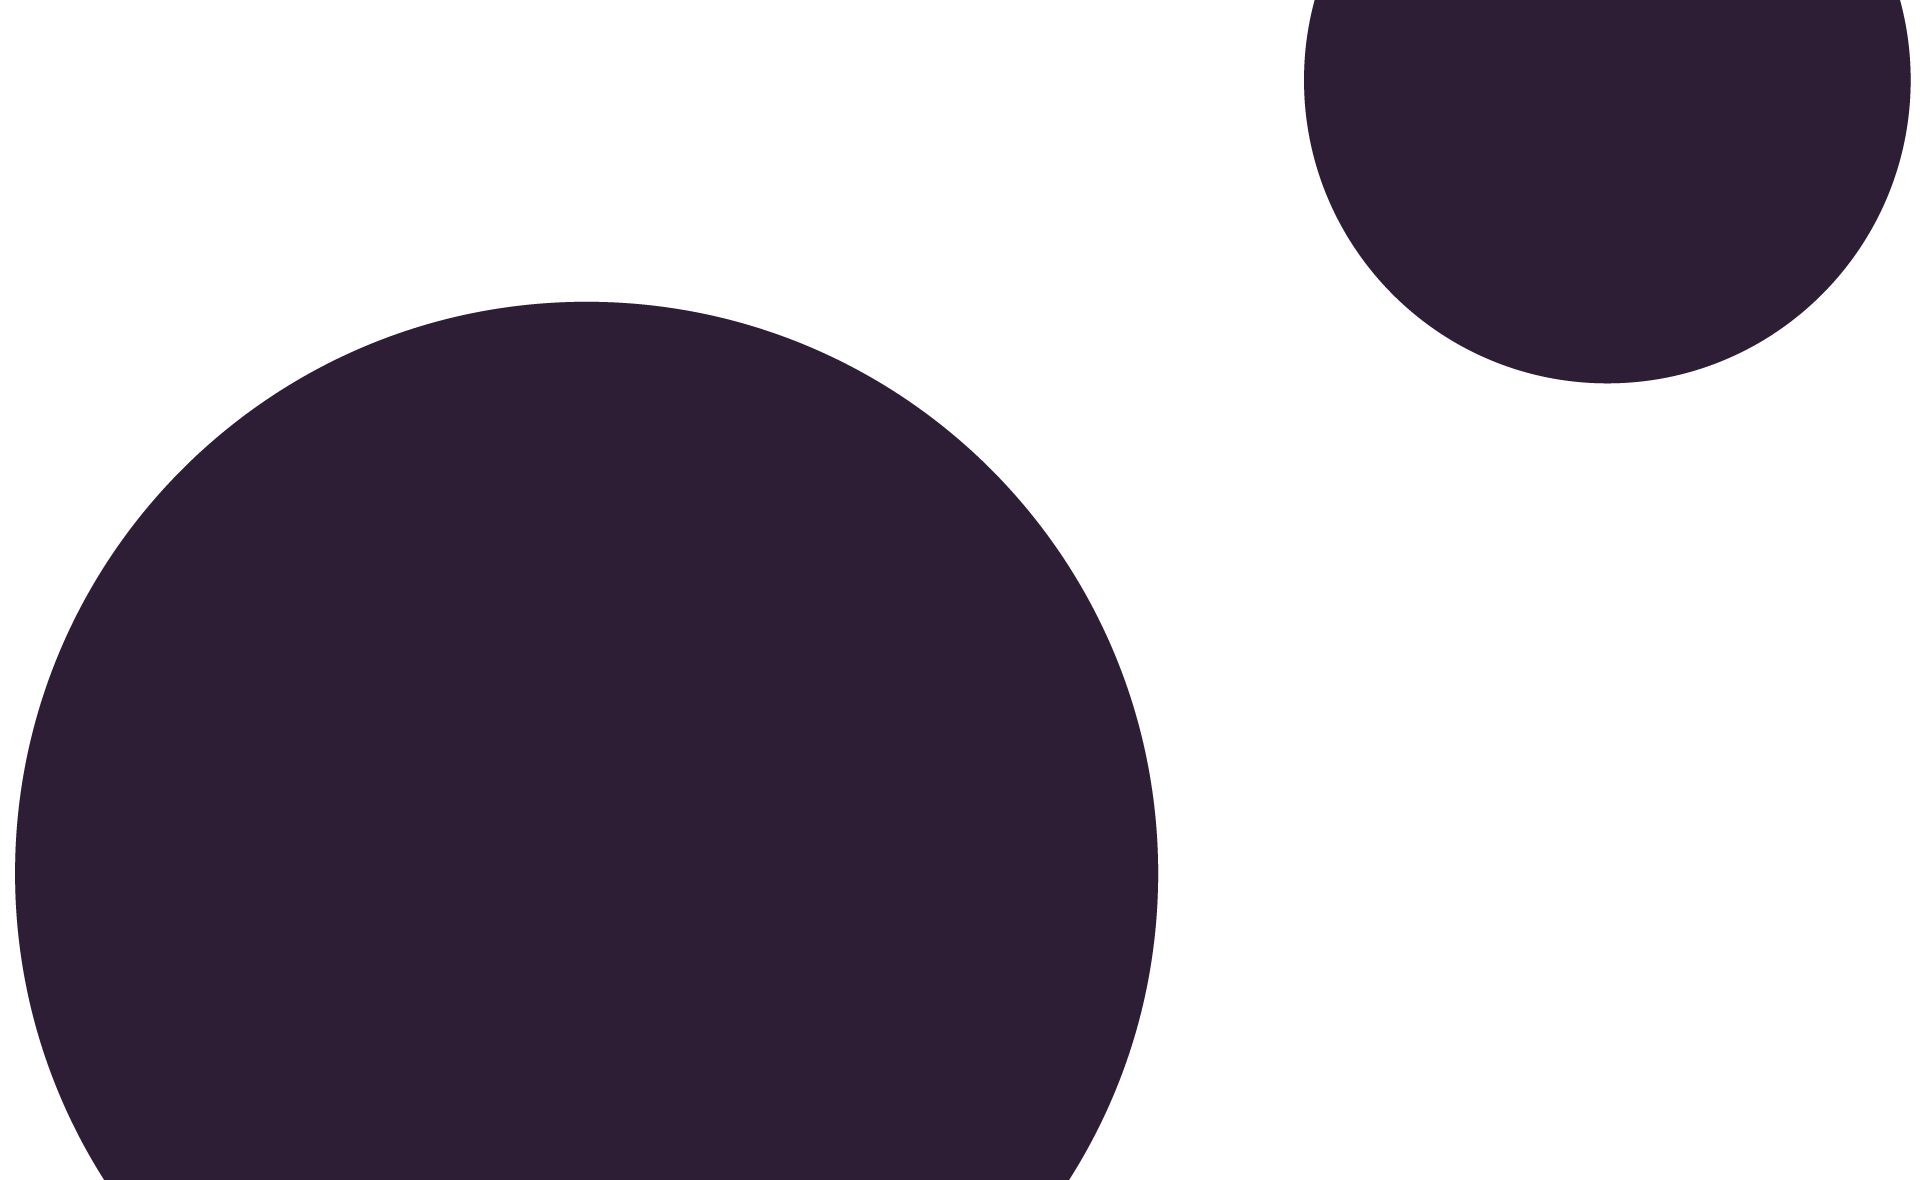
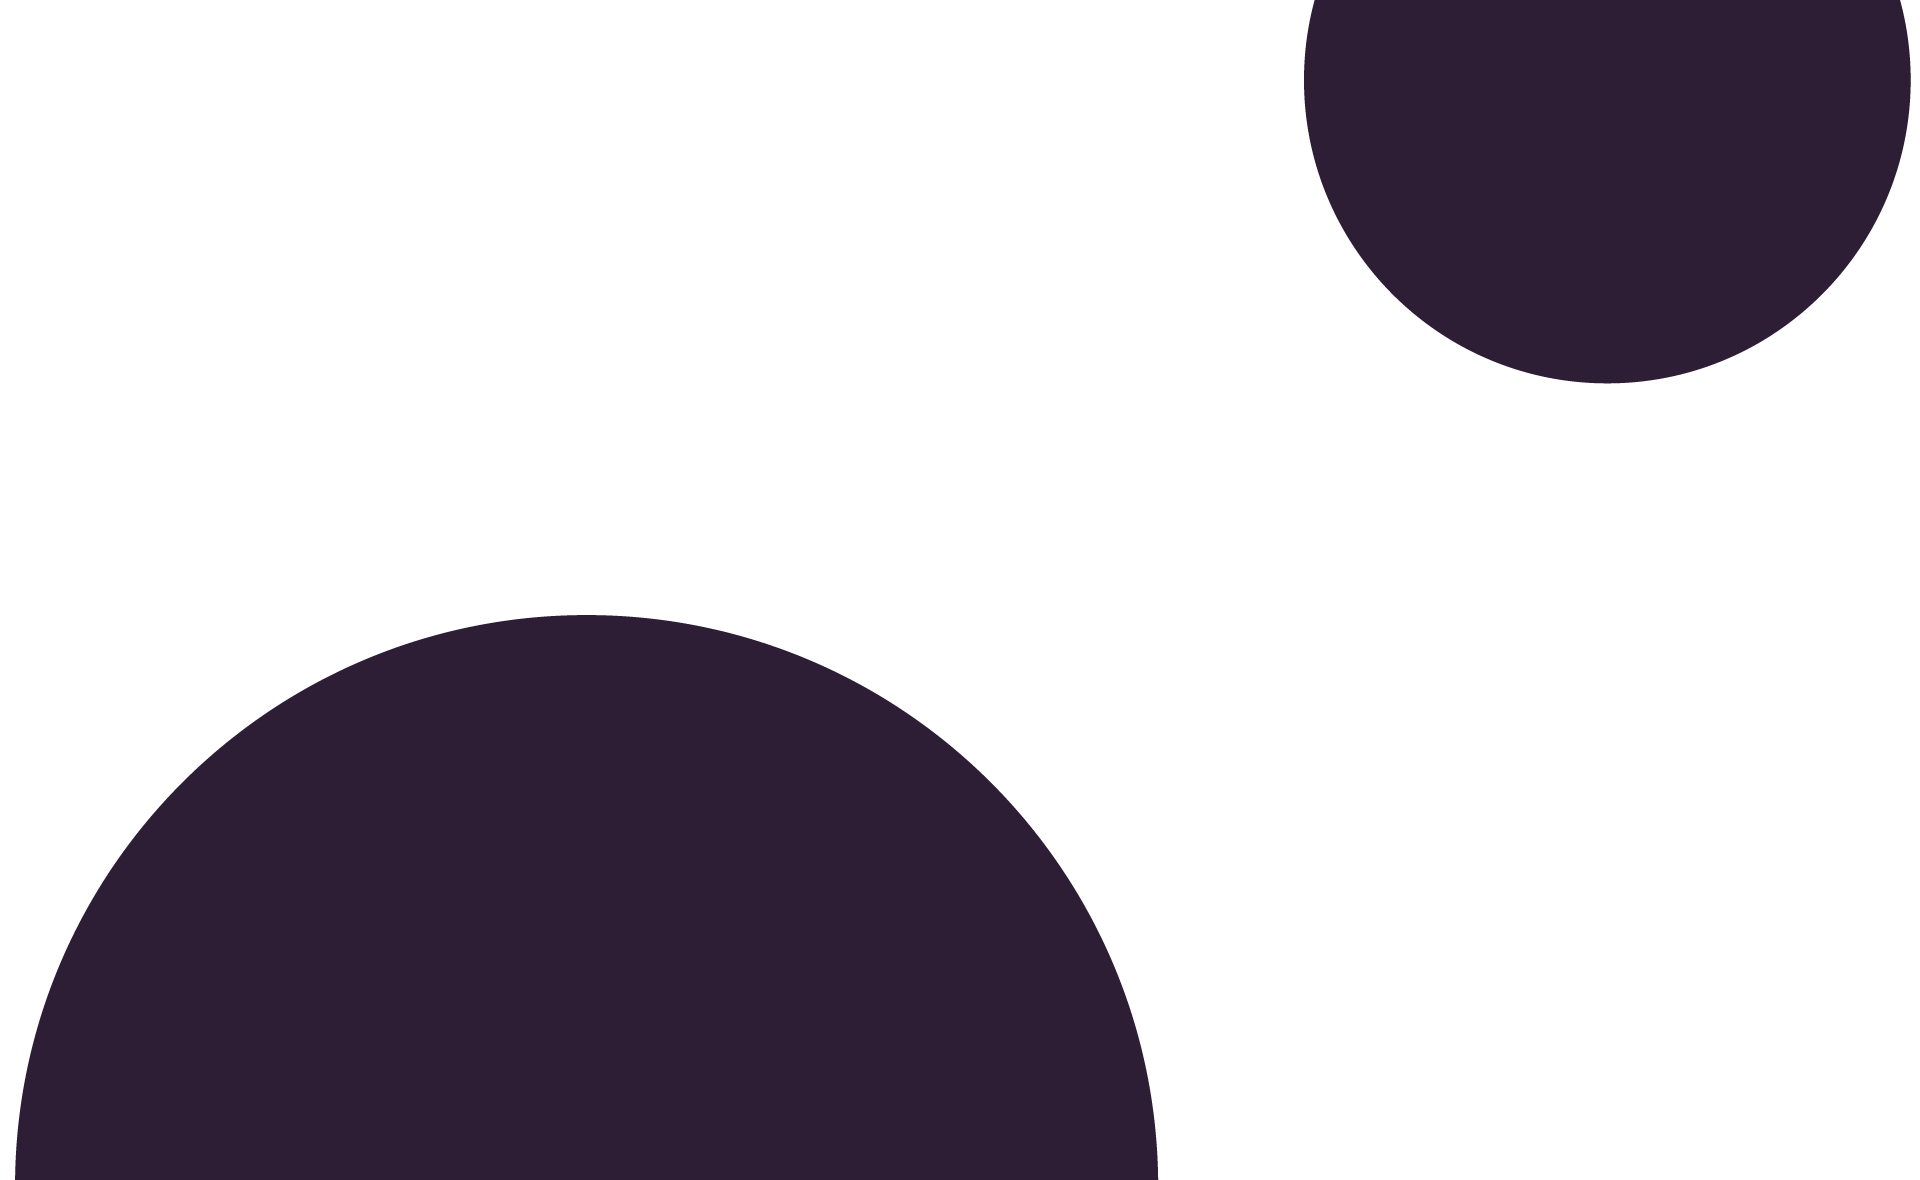
Artigo relacionados nos portfolios individuais

Changed region(s): [[0.0, 0.2441, 0.625, 1.0], [0.5625, 0.8847, 0.625, 1.0]]

diff --git a/js/projeto-detalhes.js b/js/projeto-detalhes.js
@@ -10,31 +10,69 @@ async function carregarProjeto() {
         document.getElementById('projeto-titulo').textContent = projeto.titulo;
         document.getElementById('projeto-descricao').textContent = projeto.descricao;
 
-        // Ícones de Tecnologia com o seu filtro de cor #dad3cd
+        // Ícones de Tecnologia
         const containerTecs = document.getElementById('projeto-tecs');
         containerTecs.innerHTML = projeto.tecnologias.map(tec => `
             <img src="svg/${tec}-icon.svg" title="${tec}" alt="${tec}">
         `).join('');
 
-        // Lógica de Carregamento baseada no formato (Design ou Front-end)
+        // Lógica de Carregamento baseada no formato
         const containerCarrossel = document.getElementById('container-carrossel');
-        
+
         if (projeto.formato === "carrossel" && projeto.imagensGaleria) {
-            // Injeta todas as imagens da galeria
             containerCarrossel.innerHTML = projeto.imagensGaleria.map(img => `
                 <img src="${img}" alt="Arte do projeto">
             `).join('');
-
-            // Ativa os botões do carrossel
             iniciarControlesCarrossel();
         } else if (projeto.formato === "scroll") {
-            // Fallback para caso queira usar o mesmo JS no front-end
             const containerImagem = document.getElementById('container-imagem-scroll');
             if (containerImagem) {
                 containerImagem.innerHTML = `<img src="${projeto.imagemFull}" alt="${projeto.titulo}">`;
             }
         }
+
+        // CARREGA OS RELACIONADOS AQUI
+        renderizarRelacionados(projetos, projeto);
     }
+}
+
+// Função para filtrar e mostrar os 3 projetos relacionados
+function renderizarRelacionados(todosProjetos, projetoAtual) {
+    const container = document.getElementById('lista-relacionados');
+    if (!container) return;
+
+    // Filtra pela mesma categoria (tipo) e remove o projeto atual da lista
+    let filtrados = todosProjetos.filter(p => p.tipo === projetoAtual.tipo && p.id !== projetoAtual.id);
+
+    // Embaralha a lista para ser aleatório
+    filtrados = shuffleArray(filtrados);
+
+    // Pega os 3 primeiros
+    const selecionados = filtrados.slice(0, 3);
+
+    container.innerHTML = selecionados.map(p => `
+        <div class="card-projeto">
+            <a href="projeto-${p.tipo}.html?id=${p.id}" class="card-link">
+                <div class="card-content">
+                    <div class="thumb-wrapper">
+                        <img src="${p.thumb}" alt="${p.titulo}">
+                    </div>
+                    <div class="card-text">
+                        <h3>${p.titulo}</h3>
+                    </div>
+                </div>
+            </a>
+        </div>
+    `).join('');
+}
+
+// Função auxiliar para embaralhar
+function shuffleArray(array) {
+    for (let i = array.length - 1; i > 0; i--) {
+        const j = Math.floor(Math.random() * (i + 1));
+        [array[i], array[j]] = [array[j], array[i]];
+    }
+    return array;
 }
 
 // Lógica de navegação do carrossel
@@ -44,13 +82,15 @@ function iniciarControlesCarrossel() {
     const nextBtn = document.getElementById('next-btn');
     let index = 0;
 
+    if (!nextBtn || !prevBtn) return;
+
     nextBtn.addEventListener('click', () => {
         const totalImagens = container.querySelectorAll('img').length;
         if (index < totalImagens - 1) {
             index++;
             container.style.transform = `translateX(-${index * 100}%)`;
         } else {
-            index = 0; // Volta ao início
+            index = 0;
             container.style.transform = `translateX(0)`;
         }
     });

diff --git a/css/portfolio-individual.css b/css/portfolio-individual.css
@@ -35,7 +35,7 @@
     min-height: 500px;
     border: 6px solid var(--black-color);
     background: var(--white-color);
-    box-shadow: 30px 30px 0 0 var(--black-color);
+    box-shadow: 34px 34px 0 0 var(--black-color);
     margin: 60px auto;
     overflow: hidden;
 }
@@ -68,21 +68,24 @@
 
 .acoes-projeto {
     padding: 40px 0 16px;
+    display: flex;
+    justify-content: flex-start;
 }
 
-.btn-cta {
-    display: inline-block;
+.button-open-site {
+    display: flex;
+    align-items: center;
+    gap: 20px;
     padding: 20px 30px;
     background: var(--light-purple-color);
     color: var(--white-color);
     border: 6px solid var(--black-color);
     box-shadow: 16px 16px 0 0 var(--black-color);
-    font-weight: 800;
+    font-weight: 700;
     text-decoration: none;
-    transition: 0s;
 }
 
-.btn-cta:hover {
+.button-open-site:hover {
     transform: translate(-4px, -4px);
     box-shadow: 20px 20px 0 0 var(--black-color);
     color: var(--white-color);
@@ -155,7 +158,7 @@
 }
 
 .nav-carrossel img {
-    width: 20px;
+    height: 30px;
     filter: invert(96%) sepia(5%) saturate(225%) hue-rotate(323deg) brightness(91%) contrast(89%);
 }
 
@@ -174,6 +177,63 @@
 }
 
 
+/* --- AJUSTE SETAS CARROSSEL (ESTILO HOME) --- */
+.nav-carrossel {
+    width: 66px;
+    height: 66px;
+    padding: 10px 20px;
+    box-shadow: 10px 10px 0 0 var(--black-color);
+}
+
+.nav-carrossel:hover {
+    transform: translateY(-52%) translate(-2px, -2px);
+    box-shadow: 12px 12px 0 0 var(--black-color);
+    background: var(--red-color);
+}
+
+.nav-carrossel img {
+    height: 24px;
+    filter: brightness(0) invert(1);
+    /* Seta branca pura */
+}
+
+.icon-open-arrow {
+    height: 26px;
+    fill: currentColor;
+    /* Faz o ícone herdar a cor 'white' do texto */
+}
+
+
+
+
+
+/* --- PROJETOS RELACIONADOS --- */
+.projetos-relacionados {
+    padding-bottom: 140px;
+}
+
+.grid-relacionados {
+    display: grid;
+    grid-template-columns: repeat(3, 1fr);
+    gap: 30px;
+}
+
+.thumb-wrapper {
+    padding: 0 0 30px 0;
+}
+
+.thumb-wrapper img {
+    border: 0;
+}
+
+
+
+
+
+
+
+
+
 @media (max-width: 768px) {
     .grid-galeria {
         grid-template-columns: 1fr;
@@ -182,5 +242,34 @@
     .moldura-pc {
         height: 50vh;
         box-shadow: 15px 15px 0 0 var(--black-color);
+    }
+
+    .grid-relacionados {
+        grid-template-columns: 1fr;
+    }
+
+    .nav-carrossel.prev {
+        left: 10px;
+    }
+
+    .nav-carrossel.next {
+        right: 10px;
+    }
+}
+
+
+
+
+@media (max-width: 1024px) {
+    .grid-relacionados {
+        grid-template-columns: 1fr 1fr;
+    }
+
+    .nav-carrossel.prev {
+        left: -30px;
+    }
+
+    .nav-carrossel.next {
+        right: -30px;
     }
 }

diff --git a/projeto-front-end.html b/projeto-front-end.html
@@ -36,7 +36,7 @@
         <section class="visualizacao-projeto gray-section">
             <div class="container">
                 <div class="info-projeto-topo">
-                    <h4 class="tec-title">Tecnologias utilizadas</h4>
+                    <h3 class="tec-title">Tecnologias utilizadas</h3>
                     <div id="projeto-tecs" class="icones-tecnologias"></div>
                 </div>
                 <div class="moldura-pc">
@@ -44,14 +44,32 @@
                     </div>
                 </div>
                 <div class="acoes-projeto">
-                    <a id="btn-link-projeto" href="#" class="btn-cta" target="_blank">Ver o site online</a>
+                    <a id="btn-link-projeto" href="#" class="button-open-site" target="_blank">
+                        <svg xmlns="http://www.w3.org/2000/svg" viewBox="0 0 26.6 26.6" class="icon-open-arrow">
+                            <polygon
+                                points="2.12 0 2.12 6 16.35 6 0 22.35 4.24 26.6 20.6 10.24 20.6 24.47 26.6 24.47 26.6 0 2.12 0" />
+                        </svg>
+
+                        <span>
+                            Acessar o site online
+                        </span>
+                    </a>
                 </div>
             </div>
         </section>
 
         <section class="descricao-detalhada light-section">
             <div class="container">
+                <h3 class="tec-title black-text small-bottom-margin">Descrição</h3>
                 <p id="projeto-descricao"></p>
+            </div>
+        </section>
+
+        <section class="projetos-relacionados gray-section">
+            <div class="container">
+                <h3 class="tec-title medium-bottom-margin center-content">Projetos relacionados</h3>
+                <div id="lista-relacionados" class="grid-relacionados">
+                </div>
             </div>
         </section>
     </main>

diff --git a/projeto-design.html b/projeto-design.html
@@ -36,23 +36,23 @@
         <section class="visualizacao-projeto">
             <div class="container">
                 <div class="info-projeto-topo">
-                    <h4 class="tec-title">Tecnologias utilizadas</h4>
+                    <h3 class="tec-title">Tecnologias utilizadas</h3>
                     <div id="projeto-tecs" class="icones-tecnologias"></div>
                 </div>
 
                 <div class="wrapper-carrossel">
-                    <button class="nav-carrossel prev" id="prev-btn">
+                    <div class="nav-carrossel prev" id="prev-btn">
                         <img src="svg/arrow-left.svg" alt="Anterior">
-                    </button>
+                    </div>
 
                     <div class="moldura-pc carrossel">
                         <div id="container-carrossel" class="carrossel-interno">
                         </div>
                     </div>
 
-                    <button class="nav-carrossel next" id="next-btn">
+                    <div class="nav-carrossel next" id="next-btn">
                         <img src="svg/arrow-right.svg" alt="Próximo">
-                    </button>
+                    </div>
                 </div>
 
             </div>
@@ -60,7 +60,16 @@
 
         <section class="descricao-detalhada light-section">
             <div class="container">
+                <h3 class="tec-title black-text small-bottom-margin">Descrição</h3>
                 <p id="projeto-descricao"></p>
+            </div>
+        </section>
+
+        <section class="projetos-relacionados dark-purple-section">
+            <div class="container">
+                <h3 class="tec-title medium-bottom-margin center-content">Projetos relacionados</h3>
+                <div id="lista-relacionados" class="grid-relacionados">
+                </div>
             </div>
         </section>
     </main>
